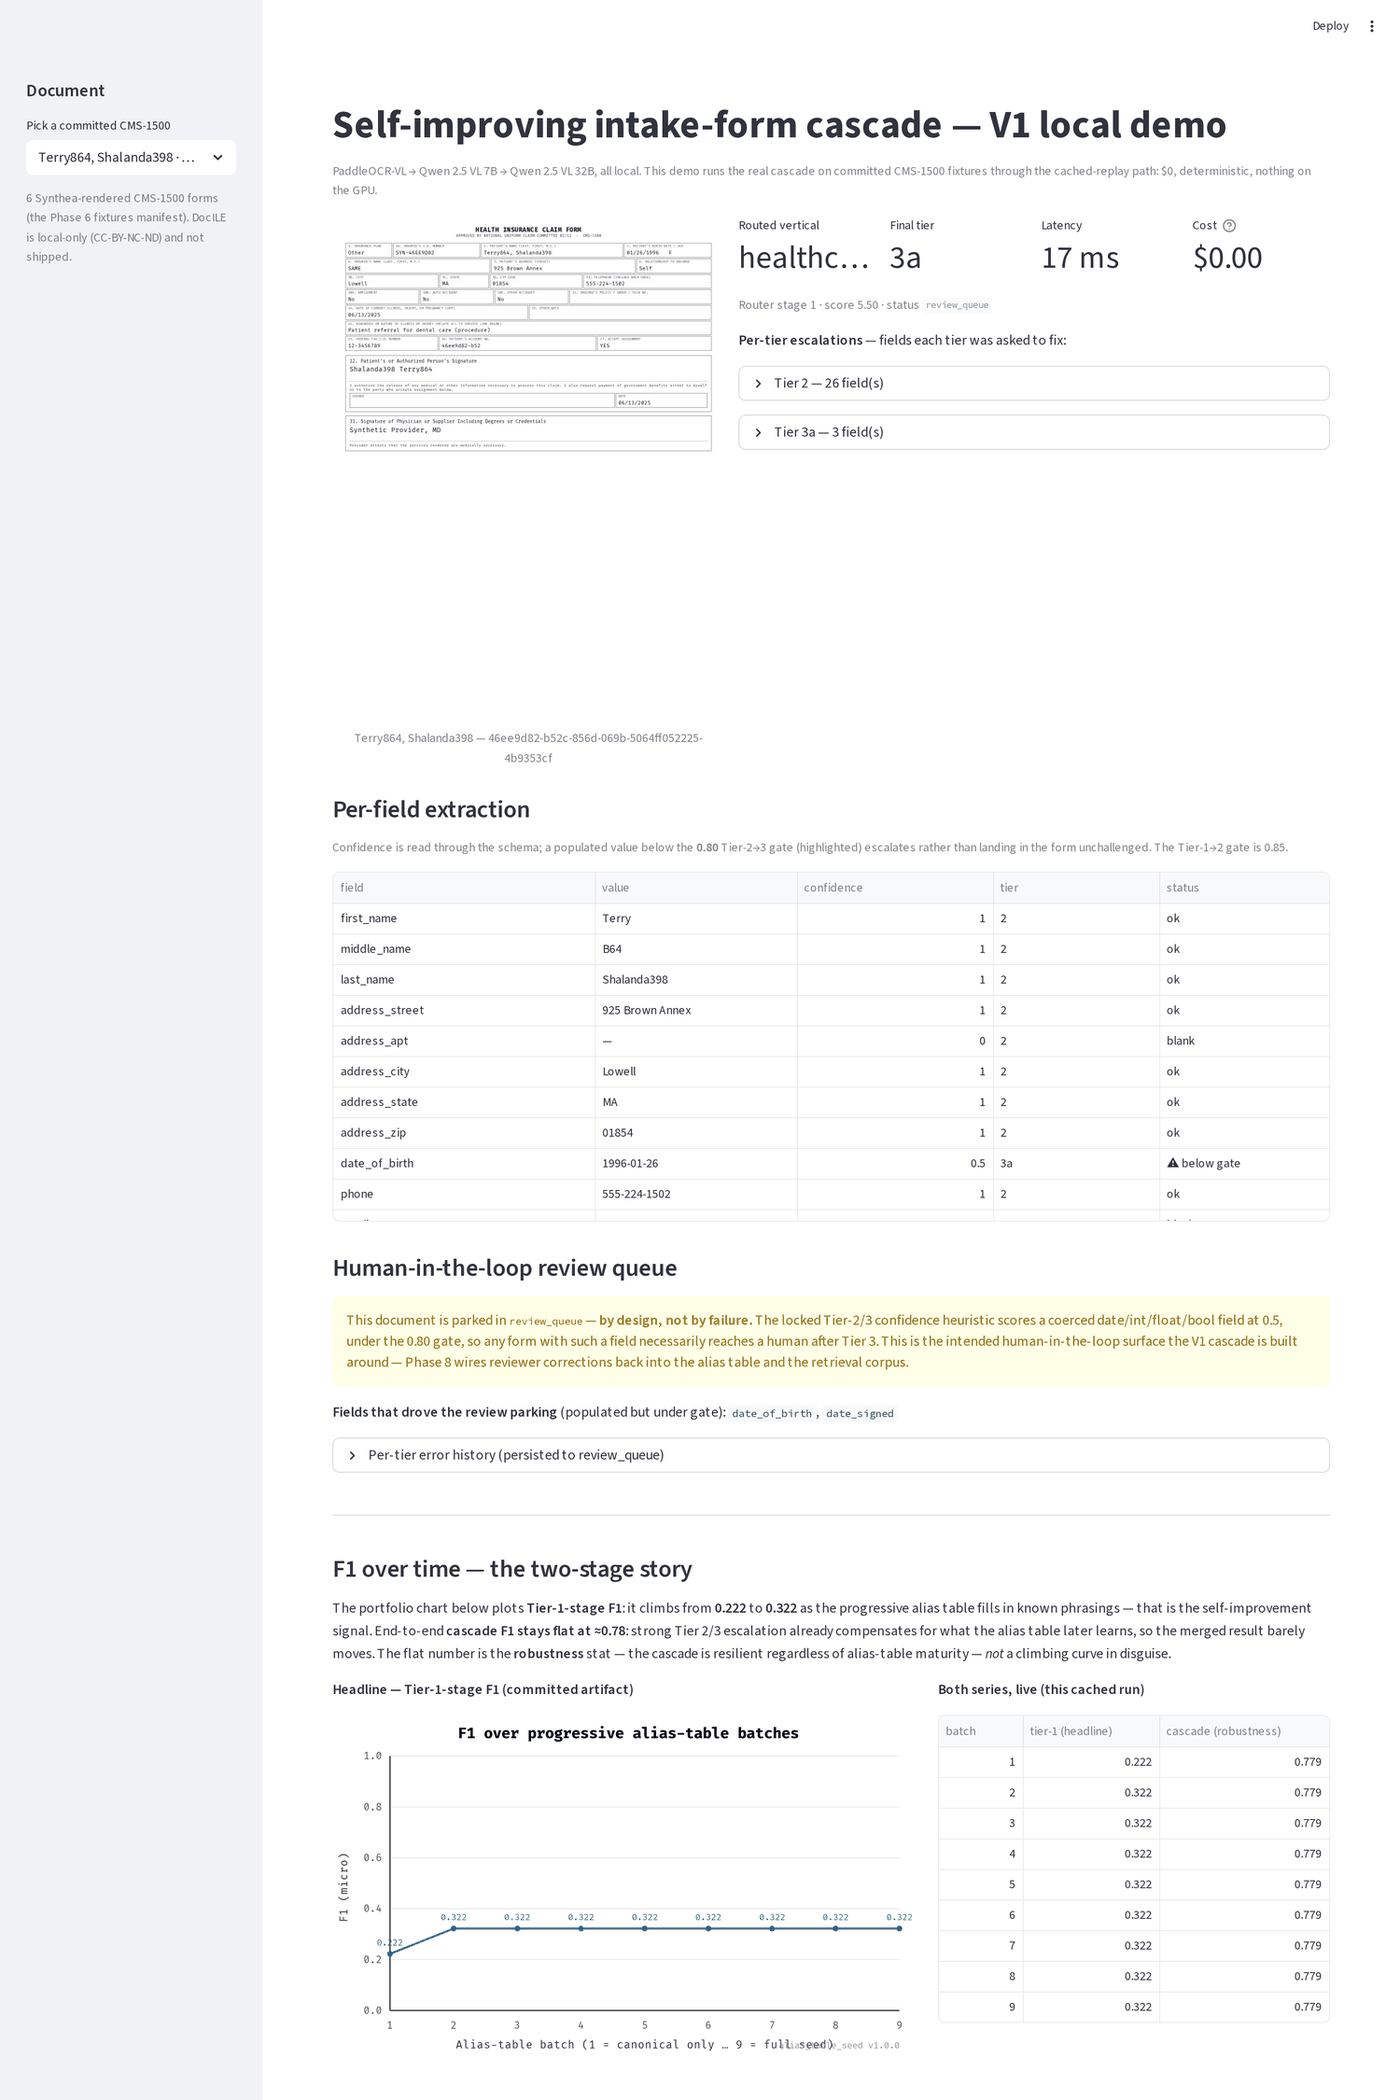
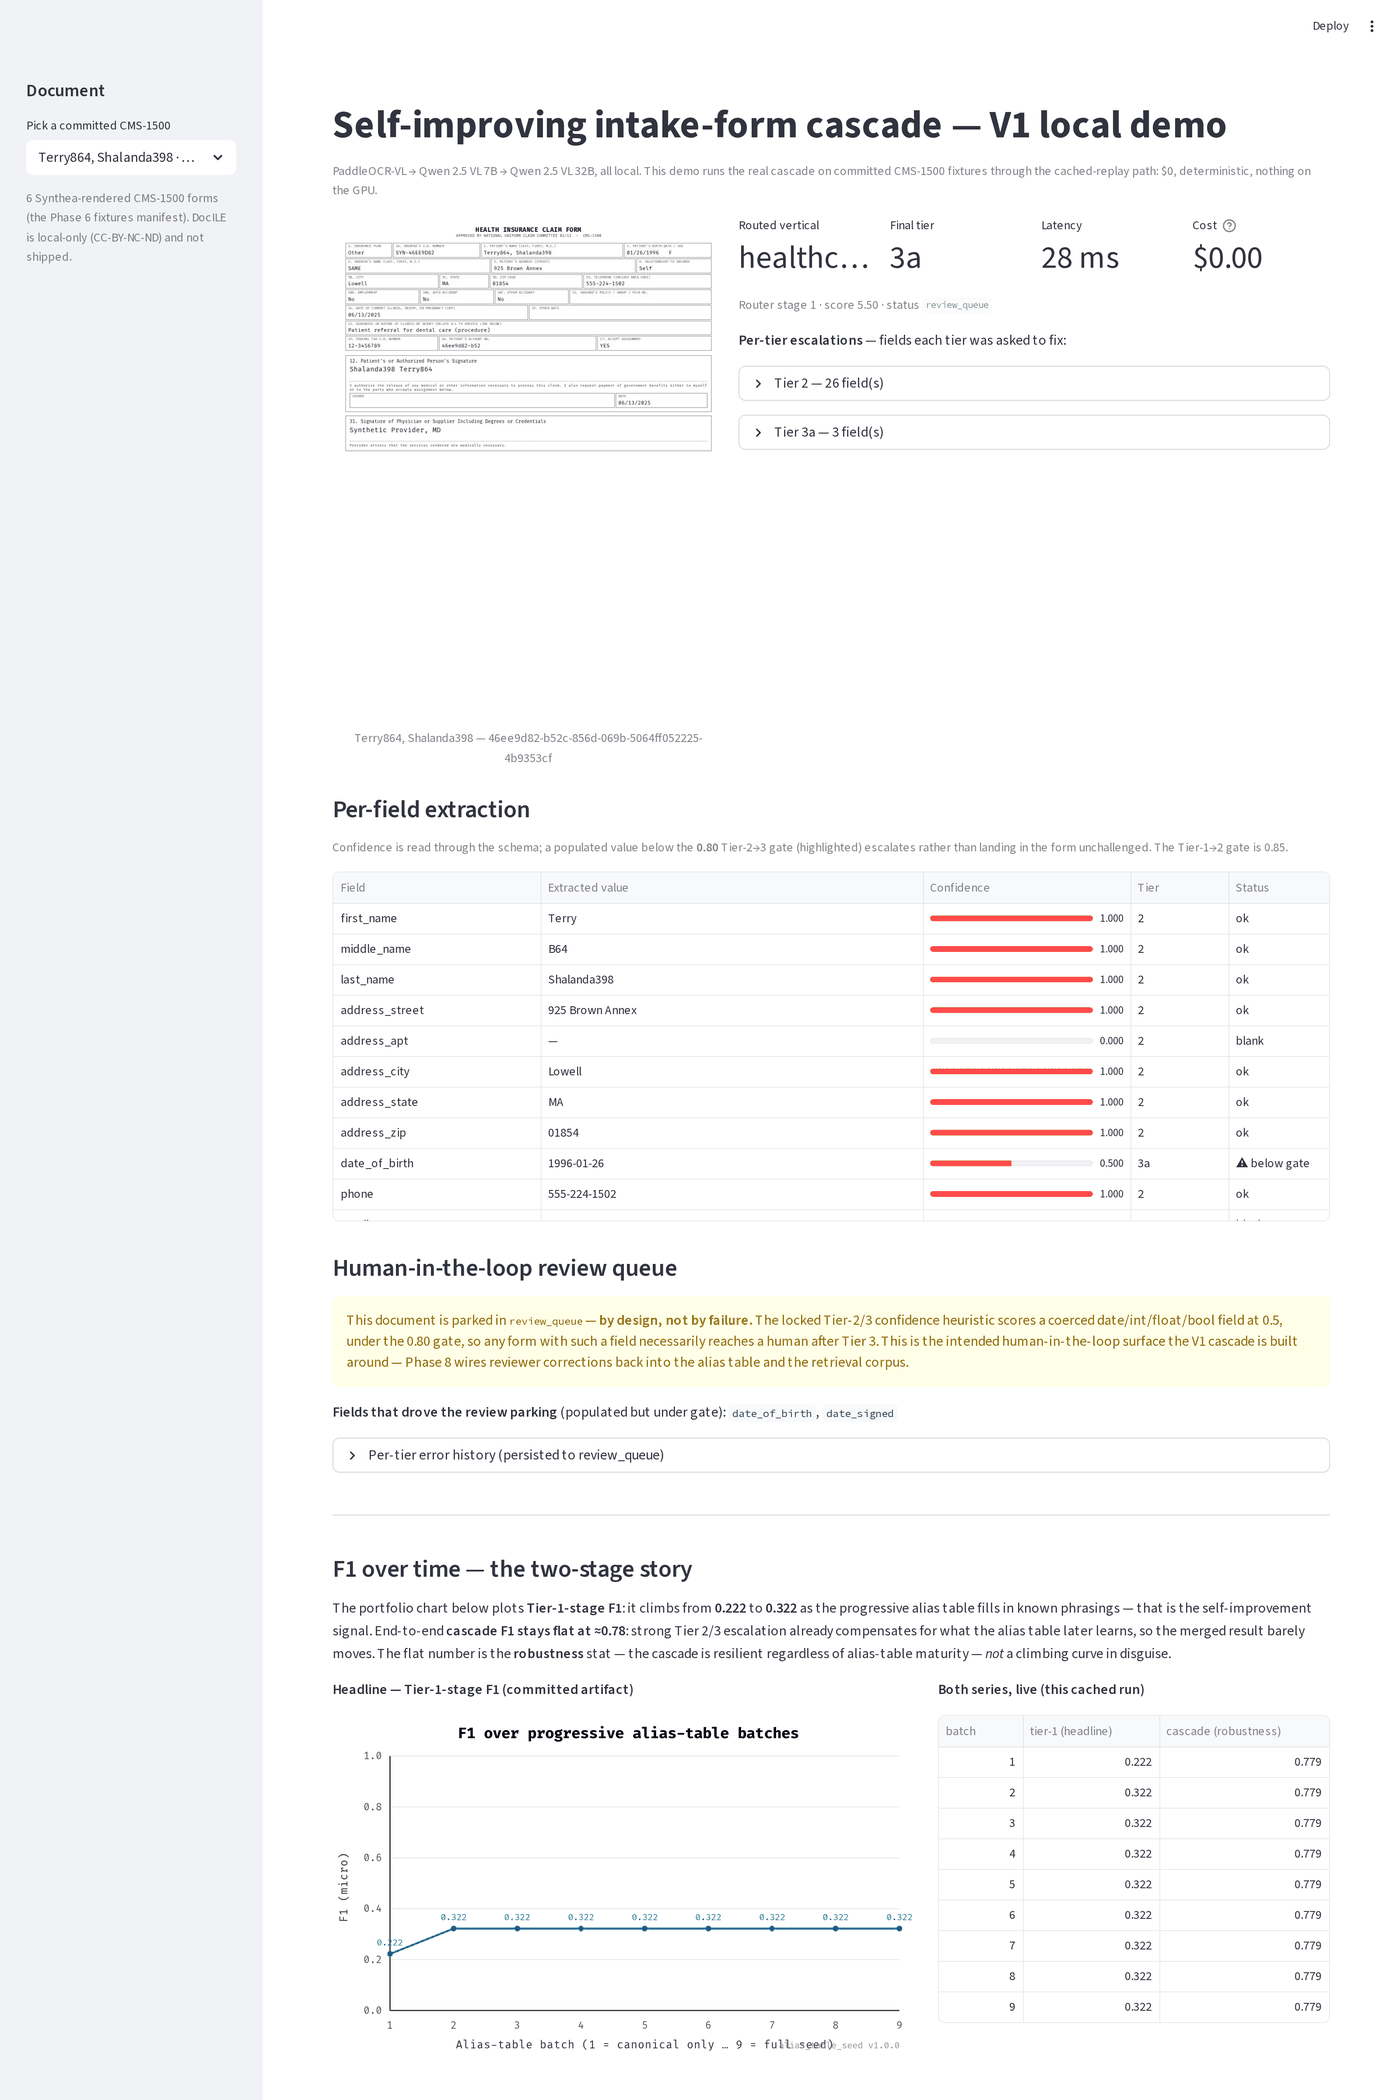
fix(demo): render per-field confidence as a labeled progress column (#59)
The bare numeric confidence column collapsed to an unreadable sliver
under `use_container_width`. Pass explicit `st.column_config` so
confidence renders as a 0-1 ProgressColumn (gate noted in its help)
and the other columns get fixed, legible widths. Regenerated the
committed portfolio screenshot from the cached path ($0).

diff --git a/demo/app.py b/demo/app.py
@@ -108,7 +108,28 @@ def _render_fields(run: DemoRun) -> None:
         }
         for r in run.fields
     ]
-    st.dataframe(rows, use_container_width=True, hide_index=True)
+    # Explicit column_config so confidence renders as a labeled 0-1 progress
+    # bar (the bare numeric column collapses to an unreadable sliver under
+    # use_container_width); fixed widths keep the other columns legible too.
+    st.dataframe(
+        rows,
+        use_container_width=True,
+        hide_index=True,
+        column_config={
+            "field": st.column_config.TextColumn("Field", width="medium"),
+            "value": st.column_config.TextColumn("Extracted value", width="large"),
+            "confidence": st.column_config.ProgressColumn(
+                "Confidence",
+                help=f"Tier-2→3 gate is {ESCALATION_GATE:.2f}",
+                format="%.3f",
+                min_value=0.0,
+                max_value=1.0,
+                width="medium",
+            ),
+            "tier": st.column_config.TextColumn("Tier", width="small"),
+            "status": st.column_config.TextColumn("Status", width="small"),
+        },
+    )
 
 
 def _render_review_queue(run: DemoRun) -> None:
